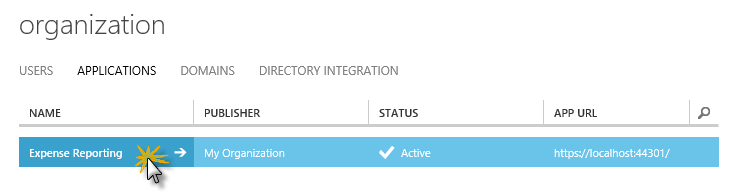
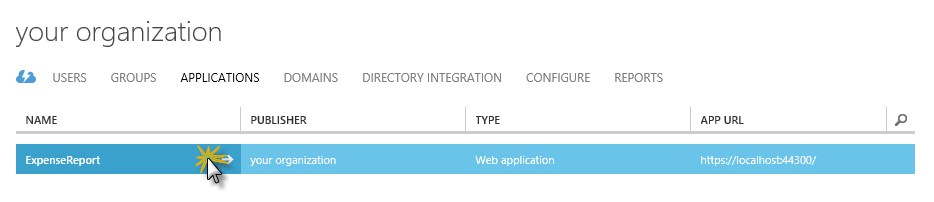
[HOL-IntroToWindowsAzureAD] Improved steps and replaced outdated screenshot

diff --git a/HOLs/HOL-IntroToWindowsAzureAD/HOL.md b/HOLs/HOL-IntroToWindowsAzureAD/HOL.md
@@ -78,7 +78,7 @@ In the first exercise you will learn how to provision a new **Windows Azure AD**
 <a name="Ex1Task1" />
 #### Task 1 - Creating a New Directory Tenant ####
 
-In this task, you will provision a new Windows Azure Active Directory Tenant from the Management Portal.
+In this task, you will provision a new Windows Azure Active Directory Tenant from Windows Azure Management Portal.
 
 1. Navigate to [Windows Azure Management Portal](https://manage.windowsazure.com) using a web browser and sign in using the Microsoft Account associated with your Windows Azure account.
 
@@ -302,7 +302,7 @@ In this task you will explore the code generated by Visual Studio to enable Sing
 
 	_Signed Out View_
 
-1. Stop running the solution by pressing **Shift + F5**.
+1. Switch back to Visual Studio and stop the solution by pressing **Shift** + **F5**.
 
 1.	Minimize Visual Studio and go back to the **Windows Azure Management Portal**. Go to your Active Directory tenant and click on **Applications** tab.
 
@@ -312,7 +312,7 @@ In this task you will explore the code generated by Visual Studio to enable Sing
 
 	_Selecting the ExpenseReport application_
 
-1.	In the application dashboard, you can get the necessary information to enable single sign-on with Windows Azure AD. You will then see were the **Federation Metadata Document URL** and **app ID URI** were configured in your MVC application.
+1.	In the application dashboard, you can get the necessary information to enable single sign-on with Windows Azure AD. You will then see were the **Federation Metadata Document URL** and **App ID URI** were configured in your MVC application.
 
 	![Application Dashboard](Images/application-dashboard.png?raw=true "Application Dashboard")
 
@@ -332,24 +332,21 @@ In this task you will explore the code generated by Visual Studio to enable Sing
 
 	>**Note:** You will need to use the **CLIENT ID** if your app calls another service, such as the Windows Azure AD Graph API, to read or write data.
 
-1. In the **single sign-on** section you can find two important properties that are used in the Single sign-on flow. These properties are **APP ID URI:** and **REPLY URL:**.
+1. In the **single sign-on** section shows important properties which the service needs to drive the sign-in protocol flow. The required properties are the **APP ID URI** and **REPLY URL**.
+	
+	The **APP ID URI** represents the identifier of your web application. Windows Azure AD uses this value at sign-on time, to determine that the authentication request is meant to enable a user to access this particular application - among all the ones registered - so that the correct settings can be applied. The APP ID URI must be unique within the directory tenant. A good default value for it is the APP URL value itself, however with that strategy the uniqueness constraint is not always easy to respect: developing the app on local hosting environments such as IIS Express and the Windows Azure Fabric Emulator tend to produce a restricted range of addresses that will be reused by multiple developers or even multiple projects from the same developer.
+
+	The **REPLY URL** represents the address of your web application. Windows Azure AD needs to know your application's address so that, after a user successfully authenticated on Windows Azure AD's pages, it can redirect the flow back to your application.
 
 	![Single sign-on section in Configure tab](Images/single-sign-on-section-in-configure-tab.png?raw=true "Single sign-on section in Configure tab")
 
 	_Single sign-on section in Configure tab_
 
-	> **Note:** In this screen the Windows Azure Management Portal shows important coordinates which the service needs to drive the sign-in protocol flow.
-	>
-	> * **APP ID URI:** this parameter represents the identifier of your web application. Windows Azure AD uses this value at sign-on time, to determine that the authentication request is meant to enable a user to access this particular application - among all the ones registered - so that the correct settings can be applied. The APP ID URI must be unique within the directory tenant. A good default value for it is the APP URL value itself, however with that strategy the uniqueness constraint is not always easy to respect: developing the app on local hosting environments such as IIS Express and the Windows Azure Fabric Emulator tend to produce a restricted range of addresses that will be reused by multiple developers or even multiple projects from the same developer.
-	>
-	> * **REPLY URL:** This parameter represents the address of your web application. Windows Azure AD needs to know your application's address so that, after a user successfully authenticated on Windows Azure AD's pages, it can redirect the flow back to your application.
-
-
 1. Switch back to Visual Studio.
 
-1. Open the **Web.config** file in order to check the authentication configuration of your application.
+1. Open the **Web.config** file to check the authentication configuration of your application.
 
-1. In the **AppSettings** section there are three new key: **ida:FederationMetadataLocation**, **ida:Realm** and **ida:AudienceUri**. Those values were configured with the Federation Metadata Document and the Aapp ID Uri of your application. The **IdentityConfig** class reads this values to configure identity when the application starts.
+1. In the **AppSettings** section there are three new key: **ida:FederationMetadataLocation**, **ida:Realm** and **ida:AudienceUri**. Those values were configured with the Federation Metadata Document and the App ID Uri of your application. The **IdentityConfig** class reads this values to configure identity when the application starts.
 
 	<!-- mark:6-8 -->
 	````XML
@@ -364,7 +361,7 @@ In this task you will explore the code generated by Visual Studio to enable Sing
 	</appSettings>
 	````
 
-1. The **identityConfiguration** element in **IdentityModel** section determines the behavior of the app during the authentication phase
+1. The **identityConfiguration** element in **IdentityModel** section of the **Web.config** determines the behavior of the application during the authentication phase.
 
 	<!-- mark:4-6 -->
 	````XML
@@ -395,7 +392,7 @@ In this task you will explore the code generated by Visual Studio to enable Sing
 	</system.identityModel.services>
 	````
 
-1.	The application is configured to handle authentication via blanket redirects. That means that, if you try to access this View after a successful sign out you will be immediately redirected to Windows Azure AD to sign in again. To avoid that behavior, the **\<location\>** element in the web.config  is used to create one exception to the authentication policy. Open **Web.config** and locate the **\<location path="Account"\>** tag.
+1.	The application is configured to handle authentication via blanket redirects. That means that, if you try to access this View after a successful sign out you will be immediately redirected to Windows Azure AD to sign in again. To avoid that behavior, the **\<location\>** element in the **Web.config**  is used to create one exception to the authentication policy.
 
 	<!-- mark:4-10 -->
 	````XML
@@ -414,7 +411,7 @@ In this task you will explore the code generated by Visual Studio to enable Sing
 	</configuration>
 	````
 
-1. Now open the **Global.axax.cs** file. There is a new method called **WSFederationAuthenticationModule_RedirectingToIdentityProvider**. It's invoked when the module is going to redirect the user to the identity provider. The method updates the **Realm** property of the **SignInRequestMessage** object with the one in the **IdentityConfig** class. The **IdentityConfig** class is configured in the **Application_Start** event.
+1. Now open the **Global.axax.cs** file. There is a new method called **WSFederationAuthenticationModule_RedirectingToIdentityProvider**. It is invoked when the module is going to redirect the user to the identity provider. The method updates the **Realm** property of the **SignInRequestMessage** object with the one in the **IdentityConfig** class. The **IdentityConfig** class is configured previously in the **Application_Start** event.
 
 	<!-- mark:4,10-16 -->
 	````C#
@@ -436,9 +433,9 @@ In this task you will explore the code generated by Visual Studio to enable Sing
 	}
 	````
 
-1. Open the **IdentityConfig.cs** file
+1. Open the **IdentityConfig.cs** file located in the **App_Start** folder.
 
-1. Your application accepts tokens coming from your Windows Azure AD tenant of choice. It is common security practice to regularly renew cryptographic keys, and Windows Azure AD signing keys are no exception: at fixed time intervals intervals the old keys will be retired, and new ones will take their place in the issuer's signing logic and in your tenant's metadata document. The **RefreshValidationSettings** method called in the **ConfigureIdentity** method saves the validation keys in a database by calling the **RefreshKeys** method of the **DatabaseIssuerNameRegistry** class.
+1. Your application accepts tokens coming from your Windows Azure AD tenant of choice. It is a common security practice to regularly renew cryptographic keys, and Windows Azure AD signing keys are no exception: at fixed time intervals the old keys will be retired, and new ones will take their place in the issuer's signing logic and in your tenant's metadata document. The **RefreshValidationSettings** method called in the **ConfigureIdentity** method saves the validation keys in a database by calling the **RefreshKeys** method of the **DatabaseIssuerNameRegistry** class.
 
 	<!-- mark:3,19-20 -->
 	````C#
@@ -465,7 +462,7 @@ In this task you will explore the code generated by Visual Studio to enable Sing
 	}
 	````
 
-1. Open **AccountController.cs** file and note the code of the **SignOut** method.
+1. Open **AccountController.cs** file located in the **Controllers** folder and note the code of the **SignOut** method.
 
 	<!-- mark:3-14 -->
 	````C#
@@ -497,9 +494,9 @@ In this task you will explore the code generated by Visual Studio to enable Sing
     }
 	````
 
-	> **Note:** The sample application demonstrated here does not do much, but your real applications might allocate resources during a user's session. If that is the case, you can take advantage of the SAM's events SigningOut and SignedOut by adding corresponding event handlers in the Global.asax file to clean up whatever resources should be disposed upon closing a session.
+	> **Note:** The sample application demonstrated here does not do much, but your real applications might allocate resources during a user's session. If that is the case, you can take advantage of the SAML's events **SigningOut** and **SignedOut** by adding corresponding event handlers in the **Global.asax** file to clean up whatever resources should be disposed upon closing a session.
 
-1.	Open the **_LoginPartial.cshtml** file located under **Views | Shared** folder. The view is rendered in the layout of the page showing the User's name with the **Sign out** link if when authenticated or a link to the **Sign in** page.
+1.	Open the **_LoginPartial.cshtml** file located under **Views | Shared** folder. The view is rendered in the layout of the page showing the User's name with the **Sign out** link when authenticated or a link to the **Sign in** page.
 
 	<!-- mark:1,6,9,17 -->
 	````CSHTML
@@ -529,8 +526,7 @@ In this task you will explore the code generated by Visual Studio to enable Sing
 
 In this task you will display the authenticated user information in the Home page of the application. You will use the **ClaimsPrincipal** class to get the **Claims** of the current user and display them in the Home page.
 
-
-1.	Open **HomeController.cs** under the **Controllers** folder. 
+1.	Open **HomeController.cs** file located in the **Controllers** folder. 
 
 1. Add the following directive at the top of the class.
 
@@ -538,7 +534,7 @@ In this task you will display the authenticated user information in the Home pag
 	using System.Security.Claims;
 	````
 
-1. Replace the **Index** method contents with the following code.
+1. Replace the **Index** method content with the following code.
 
 	(Code Snippet - _IntroductionToWindowsAzureAD - Ex1 - QueryingClaimsPrincipal_)
 
@@ -554,7 +550,7 @@ In this task you will display the authenticated user information in the Home pag
 
 	> **Note:** Starting from .NET 4.5, every identity in .NET is represented with a **ClaimsPrincipal**. In this case, the current **ClaimsPrincipal** has been constructed during the validation of an authentication token generated by Windows Azure Active Directory and presented by the user at sign-on time.
 
-1. Open **index.cshtml** and replace the html with the following code to display the Message variable.
+1. Open **Index.cshtml** file located under **Views** | **Shared** folder and replace the content with the following code to display the **Message** proeprty from the **ViewBag**
 
 	(Code Snippet - _IntroductionToWindowsAzureAD - Ex1 - DisplayMessageInIndexView_)
 
@@ -578,7 +574,7 @@ In this task you will display the authenticated user information in the Home pag
 
 	_Browser displaying Security Certificate Warning_
 
-1. Log in the application using the Active Directory user credentials.
+1. Log in to the application using the Active Directory user credentials.
 
 1. At the Home page, you can notice the username displayed at the top right of the page and the user's first and last name displayed in the center of the page.
 
@@ -586,7 +582,7 @@ In this task you will display the authenticated user information in the Home pag
 
 	_Displaying User Name in Home Page_
 
-1. Stop running the solution by pressing **Shift** + **F5**.
+1. Switch back to Visual Studio and stop the solution by pressing **Shift** + **F5**.
 
 <a name="Exercise2"></a>
 ### Exercise 2: Using the Graph API to Query Windows Azure Active Directory ###
@@ -606,9 +602,9 @@ In this task you will update the application configuration in the Management Por
 
 	_Your organization directory_
 
-1. Click on the **Application** tab to display the list of applications and click the application name you created in the previous exercise to go to its dashboard.
+1. Click on the **Applications** tab to display the list of applications and click in the application arrow you created in the previous exercise to go to its dashboard.
 
-	![Selecting Application Name](Images/selecting-application-name.png?raw=true)
+	![Selecting Application Name](Images/selecting-application-name.png?raw=true "Selecting Application Name")
 
 	_Selecting Application Name_
 
